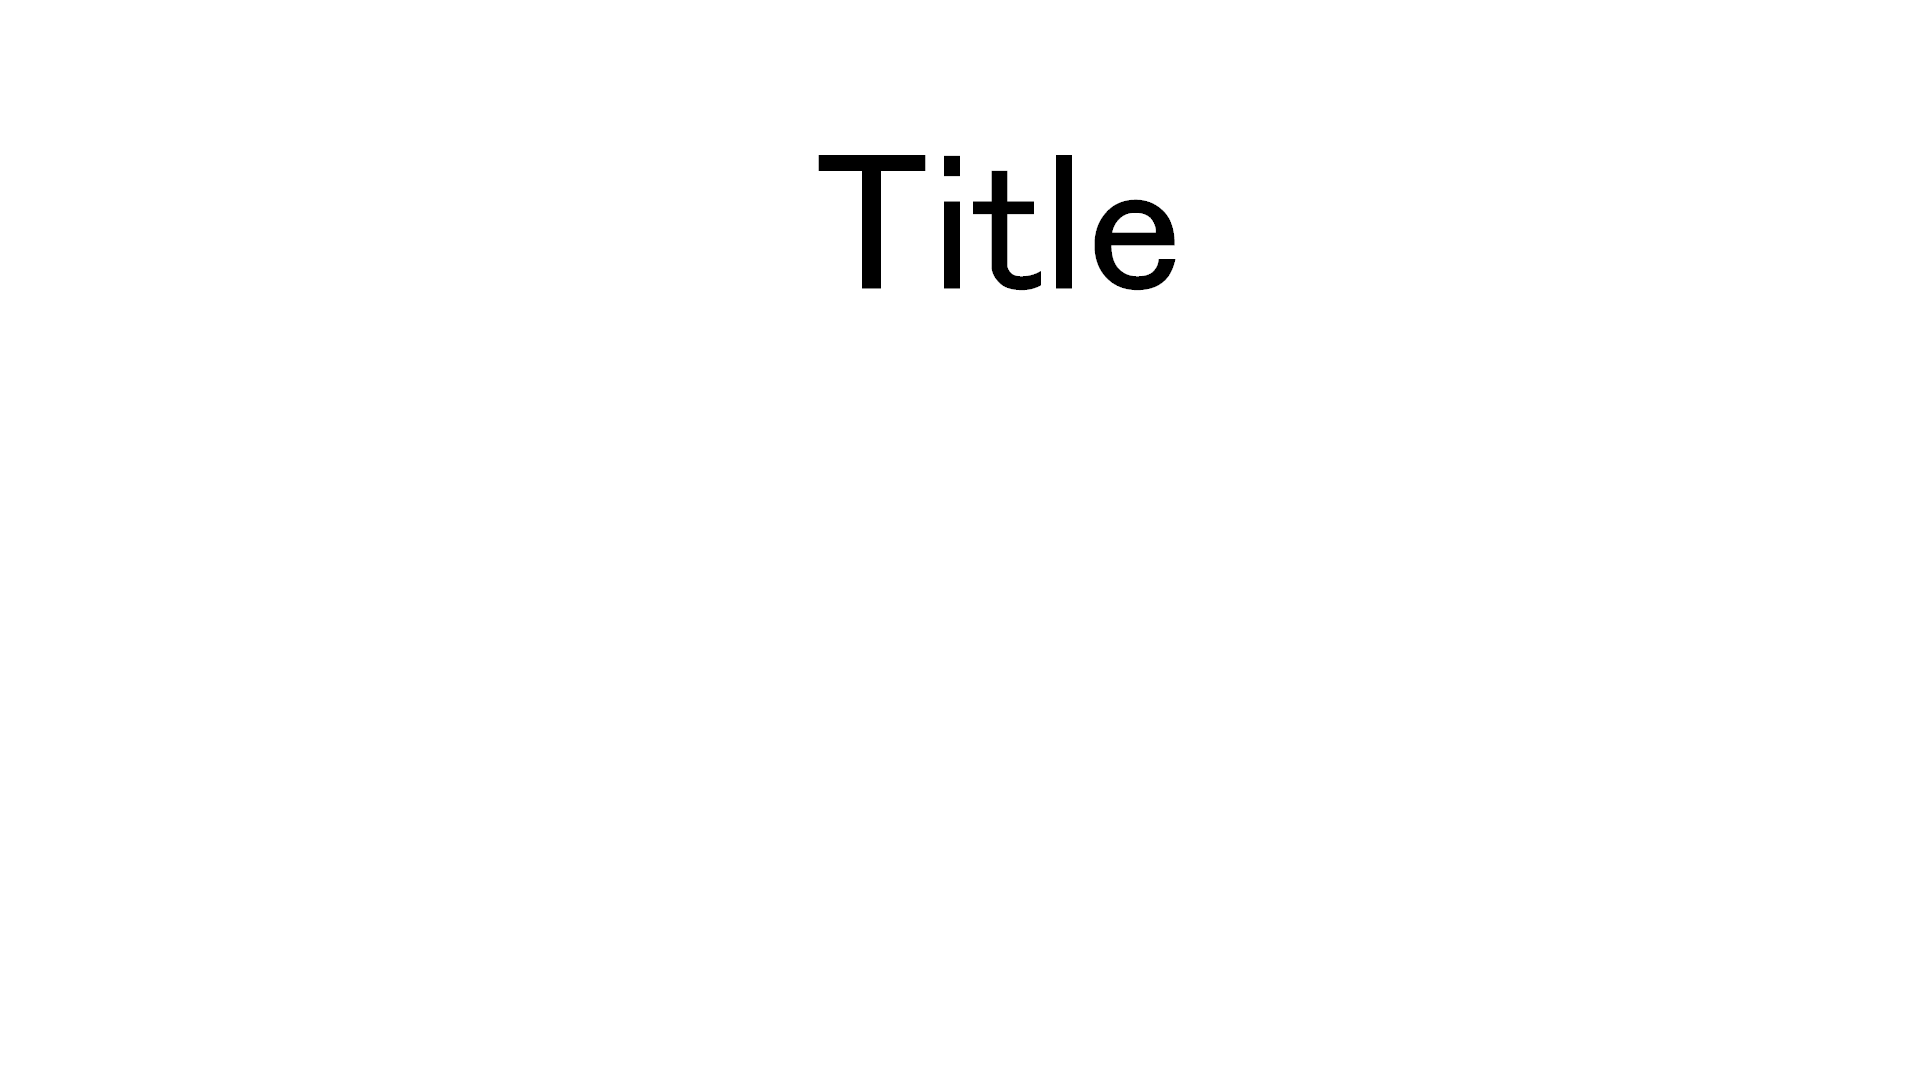
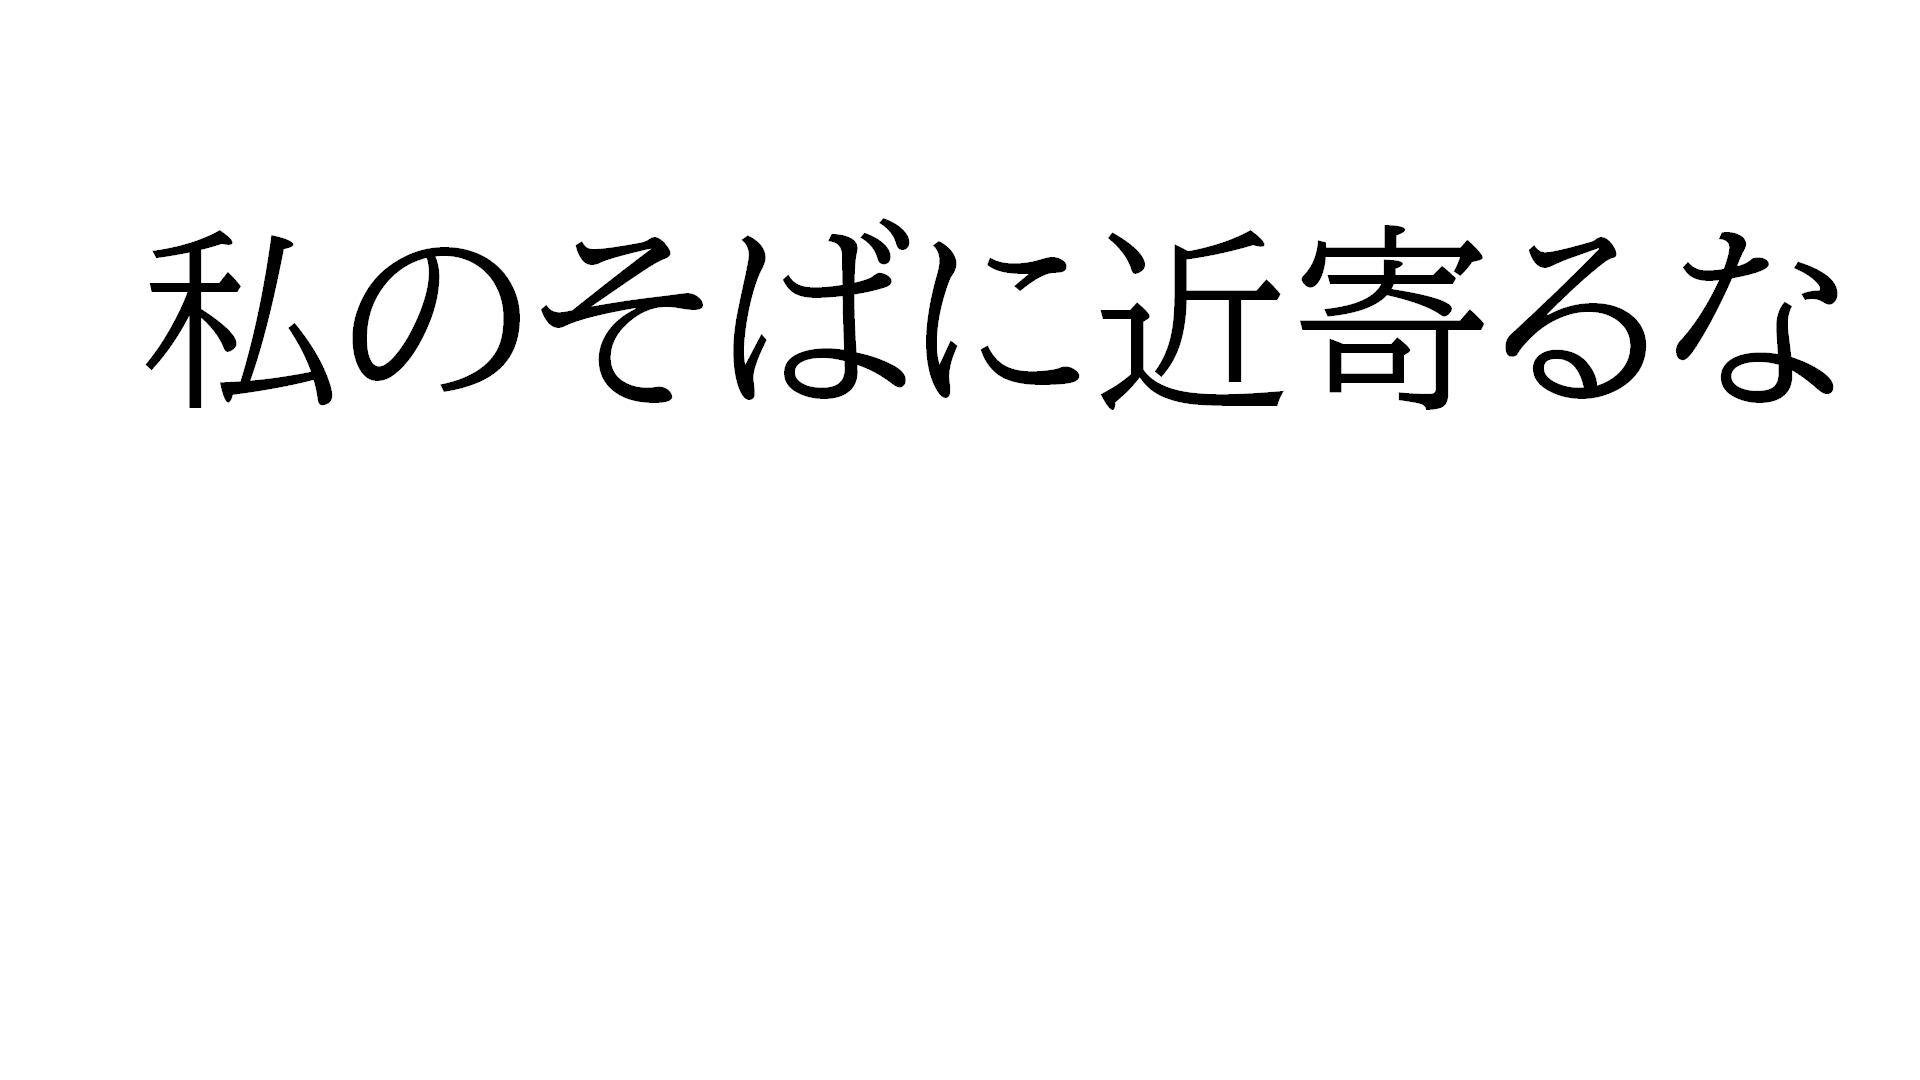
タイトル画面から開始方法の描画

Changed region(s): [[0.0625, 0.1222, 0.9688, 0.3972]]

diff --git a/project/application/Scenes/State/Title/TitleState.cpp b/project/application/Scenes/State/Title/TitleState.cpp
@@ -30,6 +30,8 @@ void TitleState::Update()
 {
 	Renderer::SetViewProj(followCamera->GetParameter());
 
+
+#ifndef NDEBUG
 	if (Input::GetPadPrecede(XINPUT_GAMEPAD_A, 10)) {
 		//ifの条件は後で変える
 		if (StateNo != GameStateNo::CLEAR) {
@@ -44,6 +46,19 @@ void TitleState::Update()
 		}
 	}
 
+#else
+	if (Input::GetPadPrecede(XINPUT_GAMEPAD_B, 10)) {
+		//ifの条件は後で変える
+		if (StateNo != GameStateNo::PLAY) {
+			StateNo = GameStateNo::PLAY;
+		}
+	}
+
+
+#endif // DEBUG
+
+	
+
 
 }
 
@@ -51,6 +66,6 @@ void TitleState::Draw()
 {
 
 	titleSprite->RendererDraw(title);
-	//texture->RendererDraw(title);
+	texture->RendererDraw(title);
 	skydome_->RendererDraw(title);
 }
